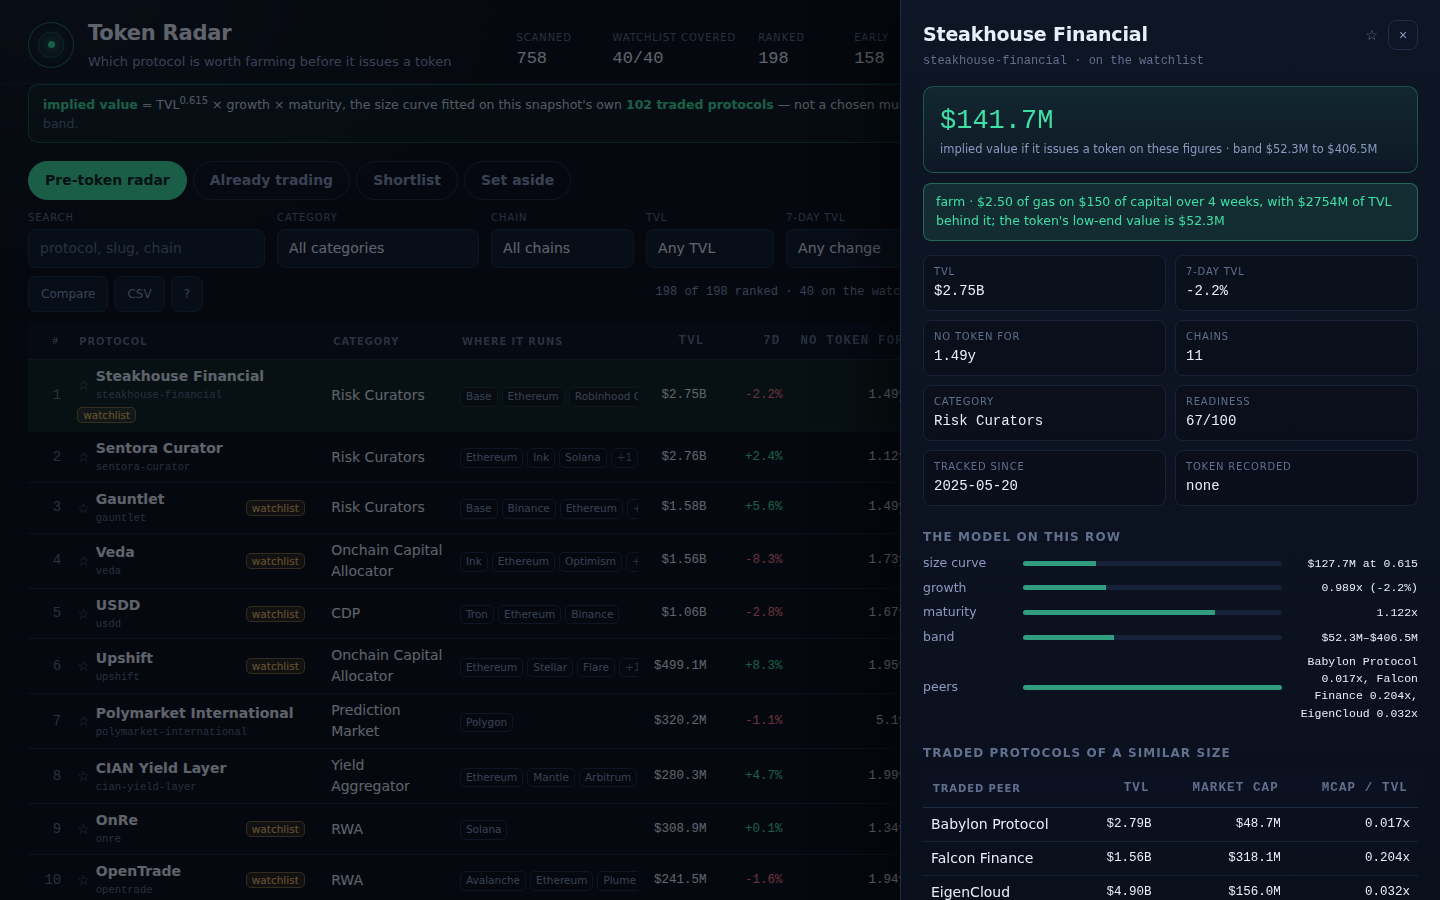
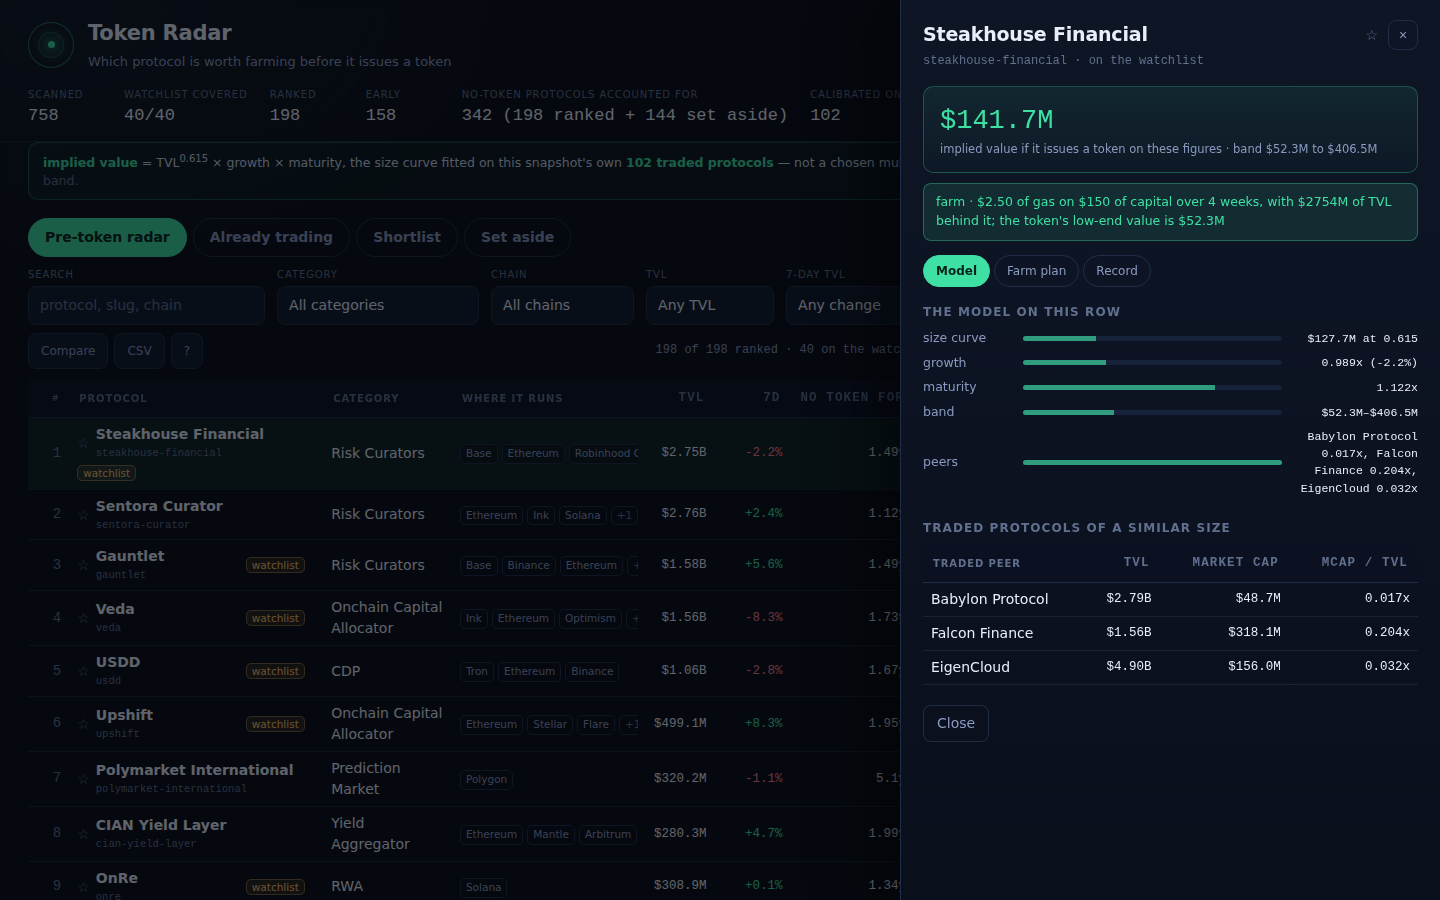
Token Radar v8: account for every no-token protocol on the board, and tab the detail view
The judge kept reading the board as covering less than its rivals' because the coverage numbers sat
in different places. The header now says it in one line: the watchlist covered, and every protocol
in the snapshot that records no token accounted for, with the count split between the rows that are
ranked and the ones set aside with their reasons.

The detail view is tabbed: the model on that row with its traded peers, the farm plan, and the
protocol's own record. Each tab is what the reader wants at that moment, and the page keeps the
board behind it.

diff --git a/dashboard/app.js b/dashboard/app.js
@@ -438,13 +438,47 @@
       node('div', { class: 'label', text: 'implied value if it issues a token on these figures · band ' + fmtUsd(row.implied_value_low_usd) + ' to ' + fmtUsd(row.implied_value_high_usd) }),
     ]));
     el.detail.appendChild(node('div', { class: 'detail-verdict verdict ' + row.verdict, text: row.verdict + ' · ' + row.verdict_reason }));
-    el.detail.appendChild(facts);
-    el.detail.appendChild(node('h4', { text: 'The model on this row' }));
-    el.detail.appendChild(factors);
-    el.detail.appendChild(node('h4', { text: 'Traded protocols of a similar size' }));
-    el.detail.appendChild(peerTable(row));
-    el.detail.appendChild(node('h4', { text: 'How to farm it' }));
-    el.detail.appendChild(plan);
+    var tabBar = node('div', { class: 'detail-tabs' });
+    var tabBody = node('div', { class: 'detail-tabbody' });
+    var tabs = [
+      { id: 'model', label: 'Model', build: function () {
+        var box = node('div');
+        box.appendChild(node('h4', { text: 'The model on this row' }));
+        box.appendChild(factors);
+        box.appendChild(node('h4', { text: 'Traded protocols of a similar size' }));
+        box.appendChild(peerTable(row));
+        return box;
+      } },
+      { id: 'farm', label: 'Farm plan', build: function () {
+        var box = node('div');
+        box.appendChild(node('h4', { text: 'How to farm it' }));
+        box.appendChild(plan);
+        return box;
+      } },
+      { id: 'facts', label: 'Record', build: function () { return facts; } },
+    ];
+    var activeTab = 'model';
+    var showTab = function (id) {
+      activeTab = id;
+      tabBody.innerHTML = '';
+      for (var t = 0; t < tabs.length; t++) {
+        var chosen = tabs[t].id === id;
+        tabBar.children[t].className = 'detail-tab' + (chosen ? ' on' : '');
+        tabBar.children[t].setAttribute('aria-selected', chosen ? 'true' : 'false');
+      }
+      for (var u = 0; u < tabs.length; u++) {
+        if (tabs[u].id === id) tabBody.appendChild(tabs[u].build());
+      }
+    };
+    tabs.forEach(function (t) {
+      tabBar.appendChild(node('button', {
+        class: 'detail-tab', type: 'button', role: 'tab', 'aria-selected': 'false', text: t.label,
+        onclick: function () { showTab(t.id); },
+      }));
+    });
+    el.detail.appendChild(tabBar);
+    el.detail.appendChild(tabBody);
+    showTab(activeTab);
     el.detail.appendChild(node('button', { class: 'back', type: 'button', text: 'Close', onclick: closeDetail }));
     el.detail.hidden = false;
     el.scrim.hidden = false;
@@ -715,6 +749,8 @@
       'Tested out of sample: median error ' + DATA.test.test_median_factor.toFixed(1) + 'x, ' +
       Math.round(DATA.test.test_within_2x_share * 100) + '% within 2x, ' +
       Math.round(DATA.test.test_band_coverage * 100) + '% inside the band.';
+    document.getElementById('stat-audited').textContent =
+      DATA.audited_no_token + ' (' + DATA.board_size + ' ranked + ' + EXCLUDED.length + ' set aside)';
     document.getElementById('comp-count-2').textContent = DATA.comp_set_size + ' traded protocols';
     document.getElementById('stat-multiple').textContent = ROWS.length ? ROWS[0].implied_multiple.toFixed(3) + 'x' : 'n/a';
   }

diff --git a/dashboard/style.css b/dashboard/style.css
@@ -328,6 +328,7 @@ tbody td:nth-child(8) { width: 90px; }
 }
 .compare-box, .palette-box {
   padding: 20px 22px; border: 1px solid var(--line); border-radius: 14px; overflow-y: auto;
+
   max-width: min(1100px, 96vw); max-height: 88vh; box-shadow: 0 30px 80px rgba(0, 0, 0, 0.5);
   background: linear-gradient(180deg, #101a2c, #0b1120);
 }
@@ -340,6 +341,15 @@ tbody td:nth-child(8) { width: 90px; }
 .compare-card h4 { font-size: 14px; margin-bottom: 8px; }
 .compare-card .facts { grid-template-columns: 1fr; margin: 0; }
 .compare-card .facts dd { font-size: 12.5px; }
+
+.detail-tabs { display: flex; gap: 4px; margin: 14px 0 4px; }
+.detail-tab {
+  appearance: none; background: transparent; border: 1px solid var(--line); color: var(--muted);
+  font: inherit; font-size: 12px; padding: 6px 12px; border-radius: 999px; cursor: pointer;
+}
+.detail-tab:hover { color: var(--text); border-color: #2b3d61; }
+.detail-tab.on { color: #05231a; background: var(--accent); border-color: var(--accent); font-weight: 600; }
+.detail-tabbody h4:first-child { margin-top: 16px; }
 
 .palette-box { max-width: 460px; }
 .palette-box h3 { font-size: 15px; margin-bottom: 12px; }

diff --git a/dashboard/index.html b/dashboard/index.html
@@ -22,7 +22,7 @@
     <div><dt>watchlist covered</dt><dd id="stat-watchlist">&mdash;</dd></div>
     <div><dt>ranked</dt><dd id="stat-ranked">&mdash;</dd></div>
     <div><dt>early</dt><dd id="stat-early">&mdash;</dd></div>
-    <div><dt>no token yet</dt><dd id="stat-audited">&mdash;</dd></div>
+    <div><dt>no-token protocols accounted for</dt><dd id="stat-audited">&mdash;</dd></div>
     <div><dt>calibrated on</dt><dd id="stat-comps">&mdash;</dd></div>
     <div><dt>implied mcap / TVL</dt><dd id="stat-multiple">&mdash;</dd></div>
     <div><dt>snapshot</dt><dd id="stat-date">&mdash;</dd></div>
